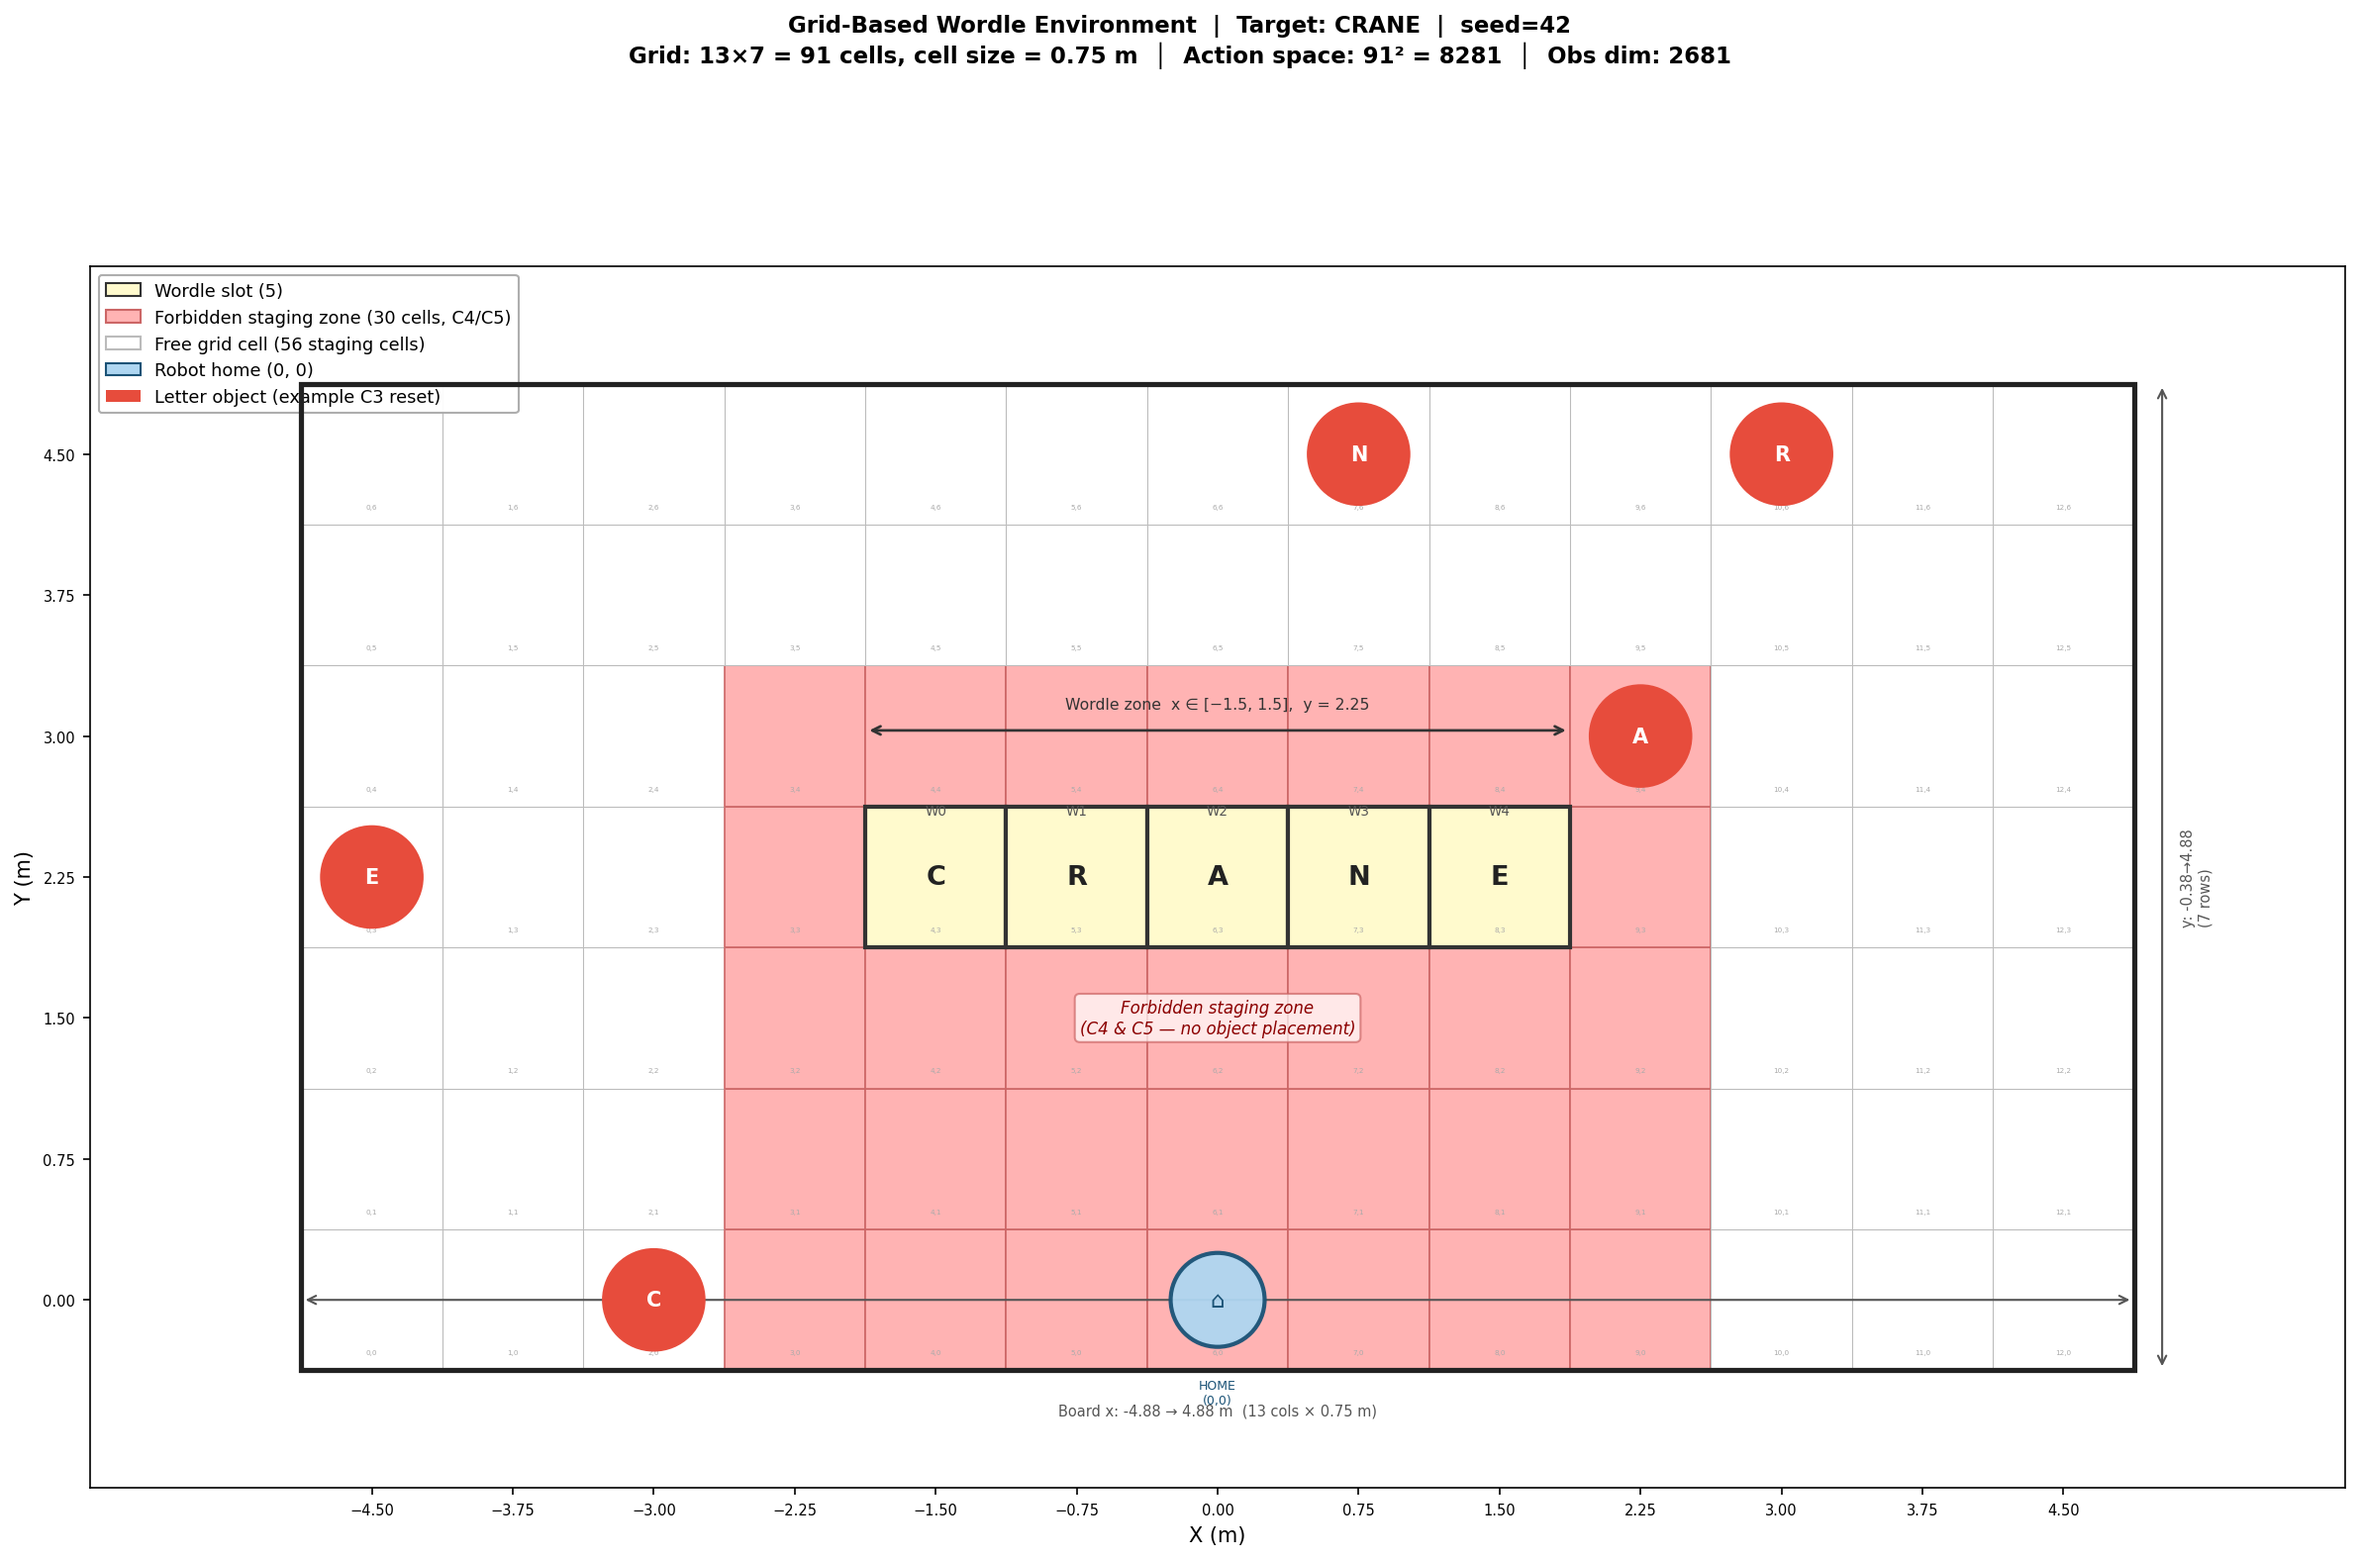
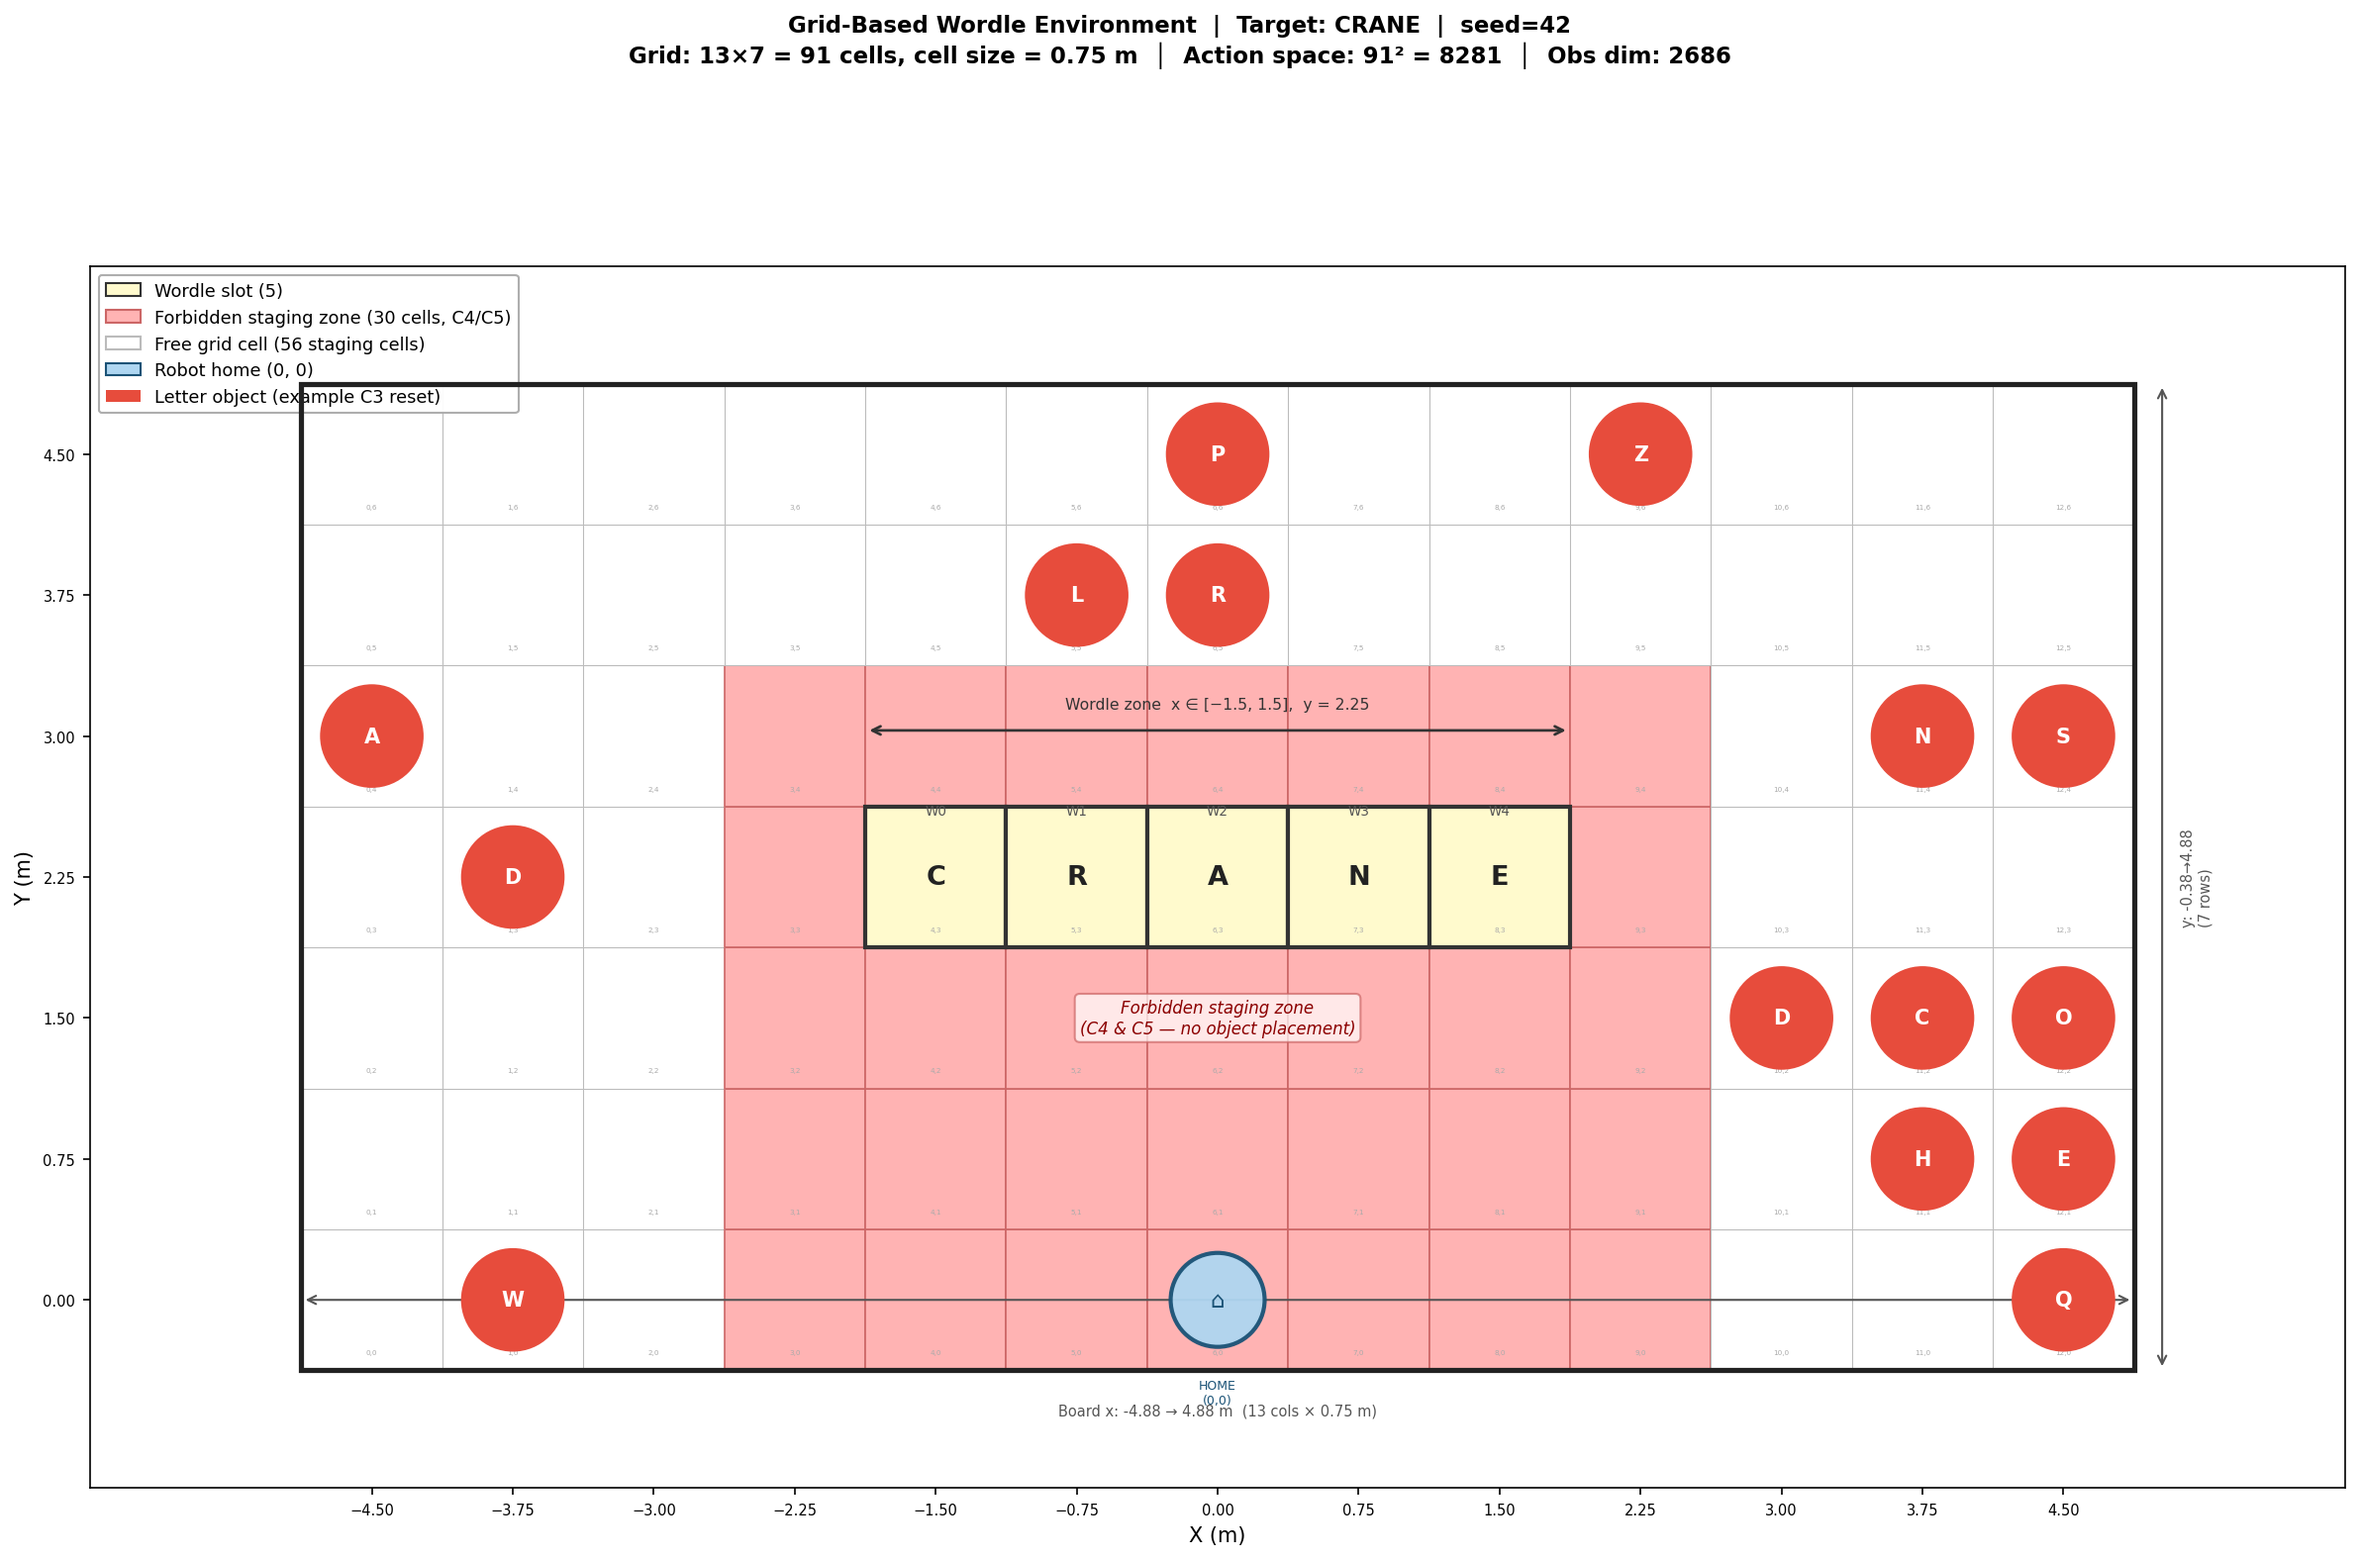
info

diff --git a/rl_task_optimiser/INFO.md b/rl_task_optimiser/INFO.md
@@ -1,0 +1,78 @@
+# Greedy Basline
+One-liner: At each step, the greedy baseline picks whichever valid action minimises the robot's immediate trip cost — robot → source cell → destination cell — with no lookahead.
+
+Technical explanation:
+
+The cost function (test.py:684) is simply compute_travel(robot_pos, source_pos, dest_pos) — the total Euclidean distance the robot travels to pick up a letter and drop it. At every step, the baseline calls action_masks() to get the legal moves, then does min(valid_actions, key=_greedy_cost) (test.py:270), selecting the cheapest single move with no awareness of what future moves that choice forces.
+
+During training, this runs live inside GreedyCompetitionWrapper._run_greedy() (train.py:136): on each reset(), the wrapper clones the exact board state onto a shadow environment and runs the greedy solver to completion, recording _cumulative_travel. Then on the final step of the RL episode, a bonus of COMPETITION_SCALE × (greedy_travel − rl_travel) is added to the reward (train.py:176) — positive if RL beat greedy, negative if it didn't. This makes the RL agent's objective explicitly relative: it's not just "complete the task" but "complete it in fewer metres than the myopic heuristic would have taken on the same board." The greedy baseline is cheap to run because it's deterministic and has no neural network inference overhead, so the per-reset shadow rollout adds negligible wall-clock cost to training.
+
+# Masking at Each Stage
+
+## C1 (Stage 1) — Tight mask, 1 correct letter, no distractors
+**One-liner:** Only allows moves where the source letter exactly matches the target letter for that Wordle slot, and the destination is a required empty slot.
+
+**Technical explanation:** `action_masks()` (wordle_env.py:383) iterates every occupied cell, looks up the letter there, and only enables the action `src * N_CELLS + dst` if `dst` is in `required_slots`, is currently empty, and the letter at `src` equals `target_word[WORDLE_CELL_ID_TO_IDX[dst]]`. With only one correct letter on the board and no distractors, there is essentially one valid move at a time — the mask collapses the action space to a single correct placement per step, making the task learnable from scratch. The step limit is capped at 10 (`MAX_STEPS_PER_STAGE[1]`).
+
+---
+
+## C2 (Stage 2) — Tight mask, 5 correct letters + 5 distractors
+**One-liner:** Same tight letter-matching mask as C1 but now five correct letters and five distractor letters share the staging area, so the agent must identify which object to move.
+
+**Technical explanation:** The masking policy is identical to C1 — only `(src, dst)` pairs where the letter matches the target slot are unmasked. What changes is the board: five correct letters and five wrong-letter distractors are all present in staging. Because distractors can never satisfy the letter-match condition for any required slot, their source cells produce zero unmasked destinations, effectively hiding them from the action space without any extra logic. The agent must learn to ignore distractors purely through the mask structure, and the step limit rises to 15.
+
+---
+
+## C3 (Stage 3) — Semi-constrained mask, all Wordle slots pre-blocked with wrong letters
+**One-liner:** Adds a two-rule mask: pieces sitting in Wordle slots can be evicted to any free staging cell, while pieces in staging can only move to a Wordle slot if their letter matches.
+
+**Technical explanation:** C3 introduces a new problem: all five Wordle slots start occupied by wrong letters, so the agent must first evict those before placing correct ones. `action_masks()` branches on whether the source is a Wordle cell or a staging cell. For a Wordle source, any empty non-forbidden staging destination is legal — **except** correctly-placed letters, which are permanently locked (`wordle_correct[wi]` check prevents eviction). For a staging source, only the letter-matching tight rule from C1/C2 applies. This two-rule structure forces a two-phase behaviour — clear, then place — without the agent being able to make arbitrary or contradictory moves. Step limit is 25 to accommodate the extra clearing phase.
+
+---
+
+## C4 (Stage 4) — Loose mask, same board as C3 but action space opened up
+**One-liner:** Removes the letter-matching constraint entirely — any piece can move to any empty non-forbidden cell — forcing the agent to learn correct sequencing from reward signal alone.
+
+**Technical explanation:** The board setup is identical to C3, but `action_masks()` now permits any `(src, dst)` pair where `src` is occupied, `dst` is empty, `dst` is not in `FORBIDDEN_STAGING_IDS`, and `src` does not hold a correctly-placed Wordle letter. There is no longer any letter-identity check — the agent could legally move any piece anywhere. The sole hard guard remaining is that correctly-placed letters can never be evicted, preserving irreversible progress. Everything else — which piece to pick up, where to put it — must be learned from the shaped reward signal and the competition bonus against the greedy baseline. The step limit is 35, and this is the stage where the RL policy is genuinely tested against the greedy solver.
+
+---
+
+# Design Choices
+
+| Design Dimension | Choice | Detail |
+|---|---|---|
+| **Algorithm** | MaskablePPO (sb3-contrib) | PPO with invalid-action masking; masks are applied at the logit level so illegal moves get zero probability |
+| **Policy network** | MlpPolicy | Fully-connected; input → hidden layers → actor + critic heads |
+| **Action space** | `Discrete(8281)` | `src_cell × 91 + dst_cell`; encodes every possible pick-and-place pair on the 91-cell grid |
+| **Observation space** | `Box(0, 1, shape=(2686,))` | 2 robot pos + 91×28 cell block (occupied, letter one-hot[26], is_correct) + 5 needs-clearing flags + 5×26 target word one-hot + 1 stage indicator |
+| **State representation** | Flat float32 vector | All values normalised to [0, 1]; robot xy divided by workspace extents, letters as one-hot, stage as `stage/5` |
+| **Reward shaping** | Step + completion + competition bonus | Per-step travel penalty, slot-placement bonus, and `COMPETITION_SCALE × (greedy_travel − rl_travel)` on episode end |
+| **Curriculum** | 4 stages (C1→C4) | Increasing board complexity and progressively looser action masks; agent promotes on success-rate threshold |
+| **Action masking** | Stage-dependent (tight → loose) | C1/C2: letter-match only; C3: two-rule evict+place; C4: any legal non-forbidden move |
+| **Step limits** | Per-stage caps | C1: 10, C2: 15, C3: 25, C4: 35 — episode truncates if limit exceeded |
+| **Invalid action penalty** | −50.0 | Applied immediately if agent selects a masked action (guard against mask bypass) |
+| **Learning rate** | 3e-4 | Adam; constant schedule |
+| **n_steps / batch_size** | 4096 / 128 | 32 minibatches per PPO update |
+| **clip_range** | 0.2 | Standard PPO clipping |
+| **ent_coef** | 0.01 | Low entropy — policy is expected to converge; exploration via curriculum, not entropy |
+| **vf_coef** | 1.0 | Boosted (default 0.5) because critic loss is in the hundreds due to competition-bonus scale |
+| **gamma** | 0.99 | Standard discount |
+| **Grid** | 13×7 = 91 cells | 0.75 m spacing; Wordle slots at row 3, cols 4–8; forbidden staging zone cols 3–9 × rows 0–4 |
+| **Greedy baseline** | Nearest-neighbour heuristic | `min(valid_actions, key=trip_distance)` — no lookahead; run on shadow env at each `reset()` |
+
+---
+
+# Reward Function
+
+| Reward Type | Amount | Trigger |
+|---|---|---|
+| Step penalty | −1.0 | Every step |
+| Travel cost | −2.0 × metres | Every step (robot trip distance) |
+| Correct placement | +20.0 | Letter placed in correct Wordle slot (once per slot) |
+| Clearing bonus | +15.0 | Wrong letter evicted from a Wordle slot to staging |
+| Wrong slot penalty | −20.0 | Letter placed in wrong Wordle slot |
+| Evict correct letter | −10.0 | Correctly-placed letter moved out of its slot |
+| Word complete | +100.0 | All required slots correctly filled |
+| Greedy competition | ±10.0 × Δmetres | Episode end — positive if RL travelled less than greedy, negative if more |
+| Invalid action | −50.0 | Agent selects a masked (illegal) action |
+
